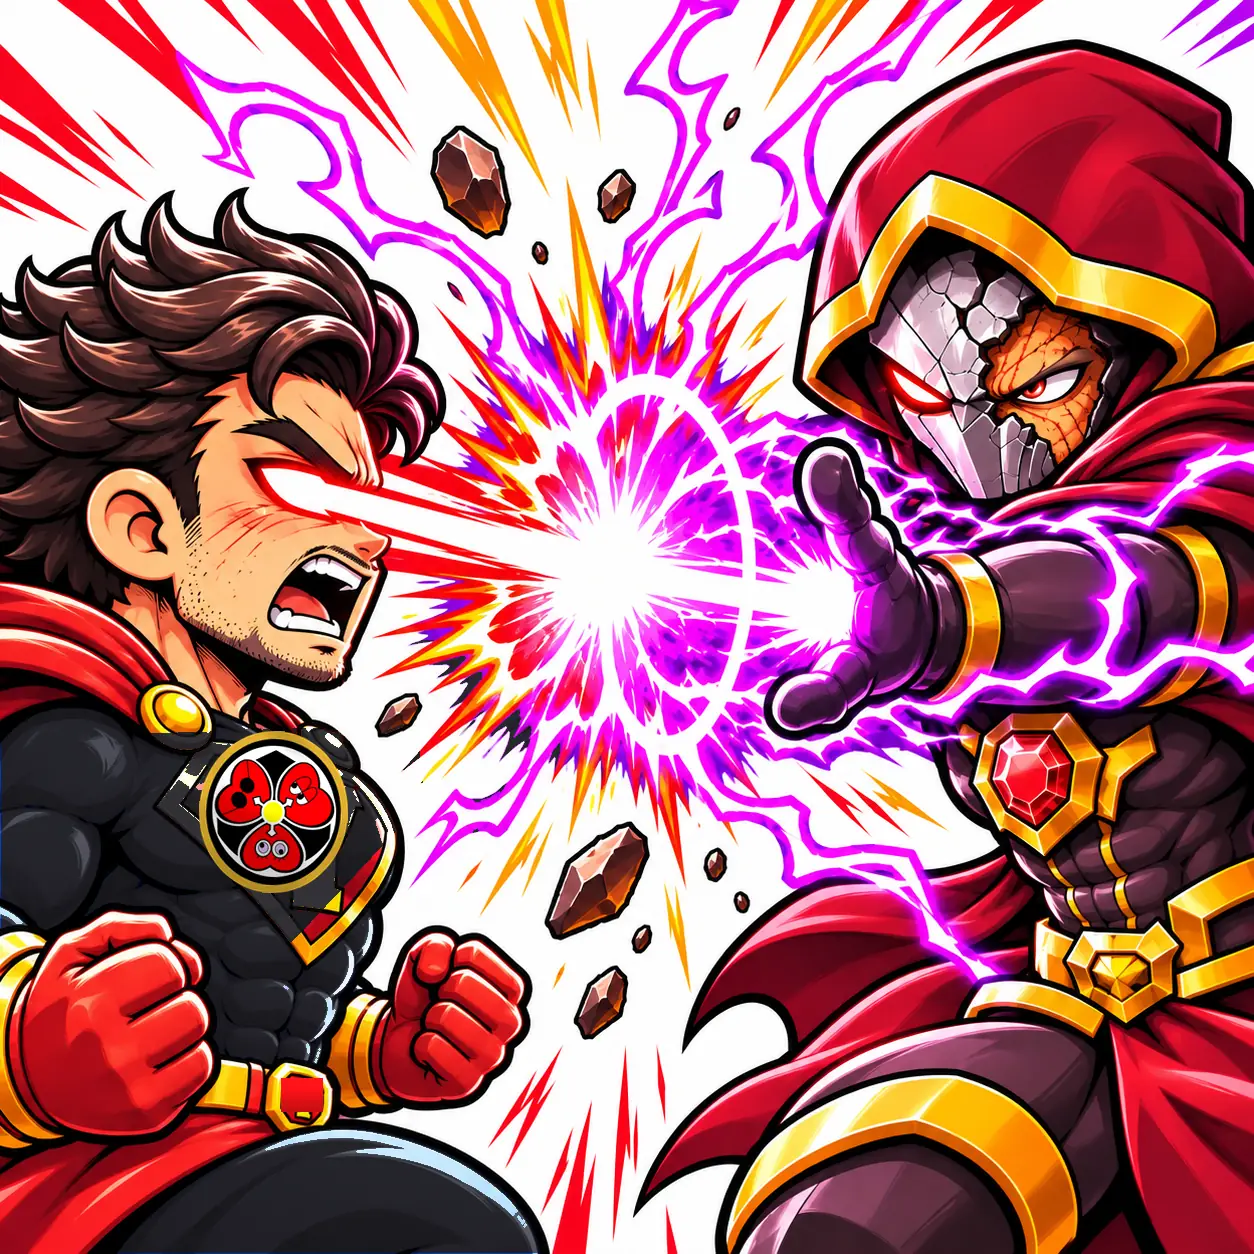
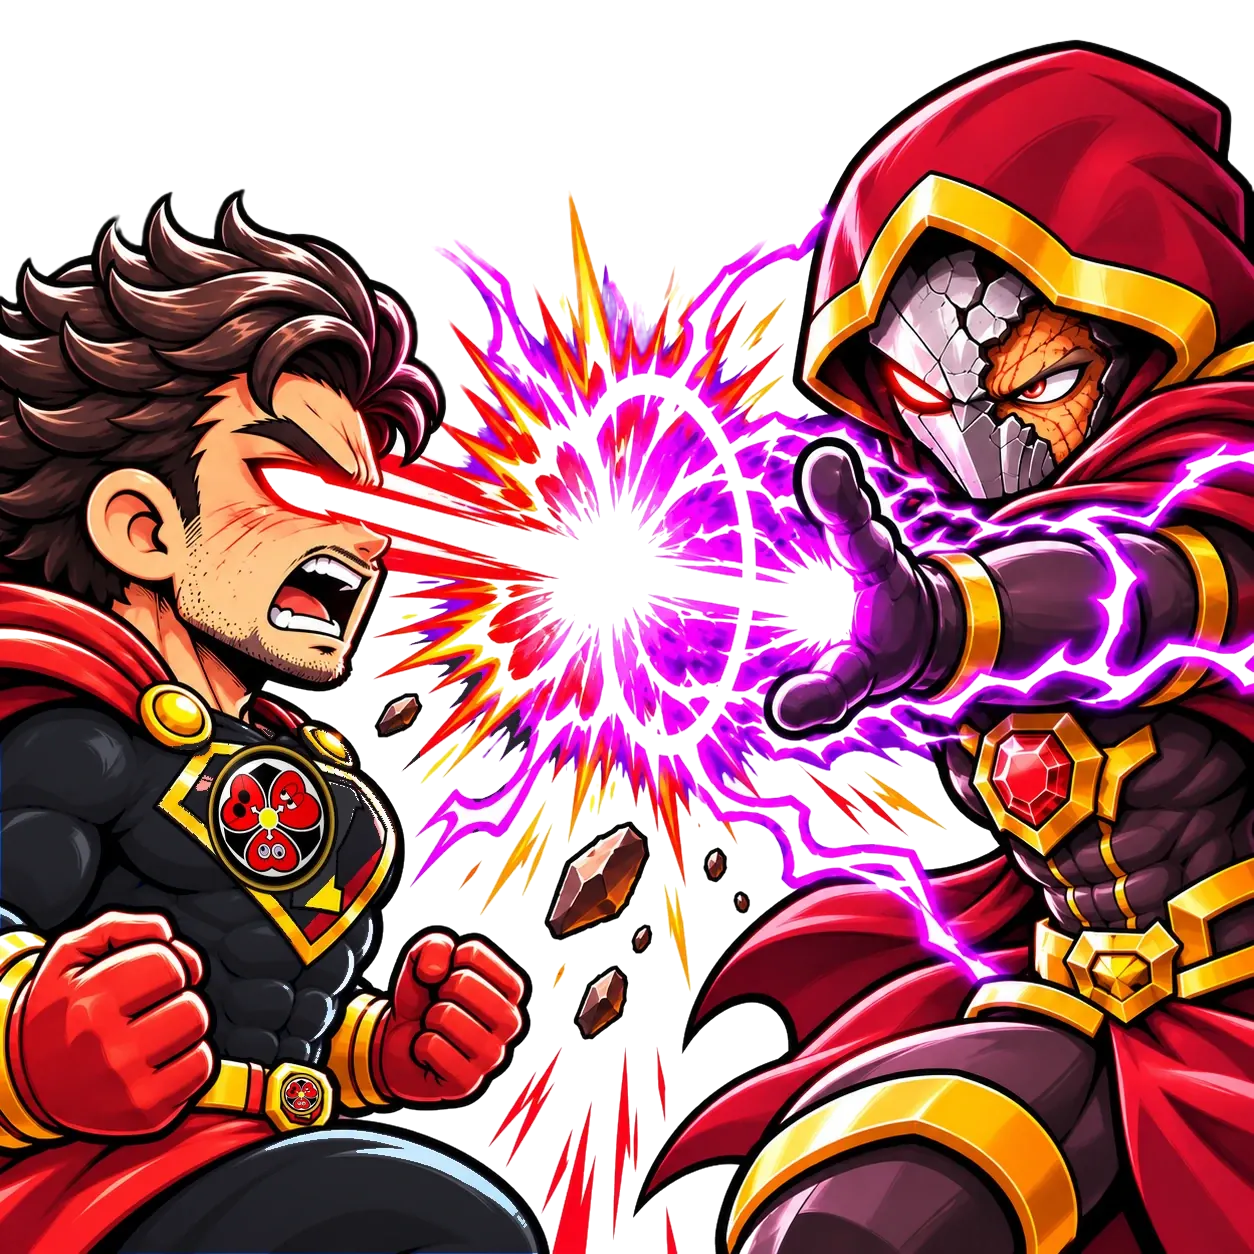
オープニング: キャラの背景を切り抜き、胸の紋章をなじませる
Claude-Session: https://claude.ai/code/session_01P13hFbXEhDS5pok4XEjrJv

diff --git a/en/index.html b/en/index.html
@@ -497,7 +497,11 @@ body.hide-top .lang-btn,body.hide-top .menu-btn{transform:translateY(calc(-100% 
 @keyframes scn0{0%,95%{opacity:1}100%{opacity:0}}
 @keyframes scnIn{0%{opacity:0}8%,100%{opacity:1}}
 .ikb,.ikbg{position:absolute;inset:0;width:100%;height:100%;object-fit:cover}
-.ikbg{display:none;filter:blur(18px) brightness(.5) saturate(1.2);transform:scale(1.15)}
+.ikbg{display:none!important}
+.s1{background:radial-gradient(circle at 50% 42%,#6d28d9 0,#2e1065 34%,#0b0614 76%)}
+.s2b{background:radial-gradient(circle at 38% 45%,#dc2626 0,#5b0d0d 42%,#0b0614 80%)}
+.s4{background:radial-gradient(circle at 58% 42%,#fbbf24 0,#c2410c 18%,#3b0a0a 55%,#0b0614 85%)}
+.s6{background:linear-gradient(90deg,#991b1b 0,#3b0a0a 38%,#2e1065 62%,#5b21b6 100%)}
 /* typography */
 .in-cap{position:absolute;left:0;right:0;bottom:11%;margin:0;padding:0 16px;text-align:center;font-family:var(--f-jp);font-weight:900;font-size:clamp(24px,4.8vw,54px);letter-spacing:.12em;color:#fff;-webkit-text-stroke:5px #1a0b2e;paint-order:stroke fill;text-shadow:0 0 18px rgba(168,85,247,.9),0 4px 0 #000;opacity:0;animation:capIn 1.1s cubic-bezier(.2,.8,.2,1) forwards .7s}
 @keyframes capIn{from{opacity:0;letter-spacing:.6em;filter:blur(8px)}to{opacity:1;letter-spacing:.12em;filter:blur(0)}}
@@ -1706,6 +1710,8 @@ footer .wrap{display:flex;justify-content:space-between;flex-wrap:wrap;gap:10px}
       /* 1: rising embers + lightning over the boss */
       if(t<3.25){ for(let i=0;i<3;i++) P.push({x:rnd(0,W),y:H+10,vx:rnd(-20,20),vy:rnd(-160,-60),life:0,max:rnd(1.2,2.4),s:rnd(1.5,3.5),c:Math.random()<.6?'#c084fc':'#fb923c',k:'dot',g:0,dr:1});
         if(Math.random()<.05){ const x=rnd(W*.1,W*.9); bolt(x,0,x+rnd(-120,120),H*rnd(.3,.6),'rgba(233,213,255,.9)',2); } }
+      if(t<3.3){ const pl=.75+Math.sin(t*14)*.15; [[.17,.41],[.80,.54]].forEach(f=>{ const [x,y]=cover('scBoss',f[0],f[1]); const R=Math.min(W,H)*.09*pl; glow(x,y,R*2,[[0,'rgba(255,255,255,.95)'],[.3,'rgba(233,213,255,.8)'],[.6,'rgba(168,85,247,.45)'],[1,'rgba(88,28,135,0)']]); }); }
+      if(t>8.38&&t<10.6){ const [x,y]=cover('scClash',.6,.45); const R=Math.min(W,H)*.1*(1+Math.sin(t*22)*.08); glow(x,y,R*2,[[0,'rgba(255,255,255,.95)'],[.3,'rgba(254,240,138,.85)'],[.6,'rgba(251,146,60,.4)'],[1,'rgba(220,38,38,0)']]); }
       /* 2: speed streaks toward camera */
       if(t>3.2&&t<6.3){ for(let i=0;i<3;i++){ const a=rnd(0,Math.PI*2), R0=Math.max(W,H)*.36; P.push({x:W/2+Math.cos(a)*R0,y:H/2+Math.sin(a)*R0,vx:Math.cos(a)*rnd(900,1800),vy:Math.sin(a)*rnd(900,1800),life:0,max:.5,s:rnd(1,2.2),c:'#fff',k:'streak',g:0,dr:1}); } }
       /* 4: punch impact */

diff --git a/index.html b/index.html
@@ -497,7 +497,11 @@ body.hide-top .lang-btn,body.hide-top .menu-btn{transform:translateY(calc(-100% 
 @keyframes scn0{0%,95%{opacity:1}100%{opacity:0}}
 @keyframes scnIn{0%{opacity:0}8%,100%{opacity:1}}
 .ikb,.ikbg{position:absolute;inset:0;width:100%;height:100%;object-fit:cover}
-.ikbg{display:none;filter:blur(18px) brightness(.5) saturate(1.2);transform:scale(1.15)}
+.ikbg{display:none!important}
+.s1{background:radial-gradient(circle at 50% 42%,#6d28d9 0,#2e1065 34%,#0b0614 76%)}
+.s2b{background:radial-gradient(circle at 38% 45%,#dc2626 0,#5b0d0d 42%,#0b0614 80%)}
+.s4{background:radial-gradient(circle at 58% 42%,#fbbf24 0,#c2410c 18%,#3b0a0a 55%,#0b0614 85%)}
+.s6{background:linear-gradient(90deg,#991b1b 0,#3b0a0a 38%,#2e1065 62%,#5b21b6 100%)}
 /* typography */
 .in-cap{position:absolute;left:0;right:0;bottom:11%;margin:0;padding:0 16px;text-align:center;font-family:var(--f-jp);font-weight:900;font-size:clamp(24px,4.8vw,54px);letter-spacing:.12em;color:#fff;-webkit-text-stroke:5px #1a0b2e;paint-order:stroke fill;text-shadow:0 0 18px rgba(168,85,247,.9),0 4px 0 #000;opacity:0;animation:capIn 1.1s cubic-bezier(.2,.8,.2,1) forwards .7s}
 @keyframes capIn{from{opacity:0;letter-spacing:.6em;filter:blur(8px)}to{opacity:1;letter-spacing:.12em;filter:blur(0)}}
@@ -1706,6 +1710,8 @@ footer .wrap{display:flex;justify-content:space-between;flex-wrap:wrap;gap:10px}
       /* 1: rising embers + lightning over the boss */
       if(t<3.25){ for(let i=0;i<3;i++) P.push({x:rnd(0,W),y:H+10,vx:rnd(-20,20),vy:rnd(-160,-60),life:0,max:rnd(1.2,2.4),s:rnd(1.5,3.5),c:Math.random()<.6?'#c084fc':'#fb923c',k:'dot',g:0,dr:1});
         if(Math.random()<.05){ const x=rnd(W*.1,W*.9); bolt(x,0,x+rnd(-120,120),H*rnd(.3,.6),'rgba(233,213,255,.9)',2); } }
+      if(t<3.3){ const pl=.75+Math.sin(t*14)*.15; [[.17,.41],[.80,.54]].forEach(f=>{ const [x,y]=cover('scBoss',f[0],f[1]); const R=Math.min(W,H)*.09*pl; glow(x,y,R*2,[[0,'rgba(255,255,255,.95)'],[.3,'rgba(233,213,255,.8)'],[.6,'rgba(168,85,247,.45)'],[1,'rgba(88,28,135,0)']]); }); }
+      if(t>8.38&&t<10.6){ const [x,y]=cover('scClash',.6,.45); const R=Math.min(W,H)*.1*(1+Math.sin(t*22)*.08); glow(x,y,R*2,[[0,'rgba(255,255,255,.95)'],[.3,'rgba(254,240,138,.85)'],[.6,'rgba(251,146,60,.4)'],[1,'rgba(220,38,38,0)']]); }
       /* 2: speed streaks toward camera */
       if(t>3.2&&t<6.3){ for(let i=0;i<3;i++){ const a=rnd(0,Math.PI*2), R0=Math.max(W,H)*.36; P.push({x:W/2+Math.cos(a)*R0,y:H/2+Math.sin(a)*R0,vx:Math.cos(a)*rnd(900,1800),vy:Math.sin(a)*rnd(900,1800),life:0,max:.5,s:rnd(1,2.2),c:'#fff',k:'streak',g:0,dr:1}); } }
       /* 4: punch impact */

diff --git a/th/index.html b/th/index.html
@@ -497,7 +497,11 @@ body.hide-top .lang-btn,body.hide-top .menu-btn{transform:translateY(calc(-100% 
 @keyframes scn0{0%,95%{opacity:1}100%{opacity:0}}
 @keyframes scnIn{0%{opacity:0}8%,100%{opacity:1}}
 .ikb,.ikbg{position:absolute;inset:0;width:100%;height:100%;object-fit:cover}
-.ikbg{display:none;filter:blur(18px) brightness(.5) saturate(1.2);transform:scale(1.15)}
+.ikbg{display:none!important}
+.s1{background:radial-gradient(circle at 50% 42%,#6d28d9 0,#2e1065 34%,#0b0614 76%)}
+.s2b{background:radial-gradient(circle at 38% 45%,#dc2626 0,#5b0d0d 42%,#0b0614 80%)}
+.s4{background:radial-gradient(circle at 58% 42%,#fbbf24 0,#c2410c 18%,#3b0a0a 55%,#0b0614 85%)}
+.s6{background:linear-gradient(90deg,#991b1b 0,#3b0a0a 38%,#2e1065 62%,#5b21b6 100%)}
 /* typography */
 .in-cap{position:absolute;left:0;right:0;bottom:11%;margin:0;padding:0 16px;text-align:center;font-family:var(--f-jp);font-weight:900;font-size:clamp(24px,4.8vw,54px);letter-spacing:.12em;color:#fff;-webkit-text-stroke:5px #1a0b2e;paint-order:stroke fill;text-shadow:0 0 18px rgba(168,85,247,.9),0 4px 0 #000;opacity:0;animation:capIn 1.1s cubic-bezier(.2,.8,.2,1) forwards .7s}
 @keyframes capIn{from{opacity:0;letter-spacing:.6em;filter:blur(8px)}to{opacity:1;letter-spacing:.12em;filter:blur(0)}}
@@ -1706,6 +1710,8 @@ footer .wrap{display:flex;justify-content:space-between;flex-wrap:wrap;gap:10px}
       /* 1: rising embers + lightning over the boss */
       if(t<3.25){ for(let i=0;i<3;i++) P.push({x:rnd(0,W),y:H+10,vx:rnd(-20,20),vy:rnd(-160,-60),life:0,max:rnd(1.2,2.4),s:rnd(1.5,3.5),c:Math.random()<.6?'#c084fc':'#fb923c',k:'dot',g:0,dr:1});
         if(Math.random()<.05){ const x=rnd(W*.1,W*.9); bolt(x,0,x+rnd(-120,120),H*rnd(.3,.6),'rgba(233,213,255,.9)',2); } }
+      if(t<3.3){ const pl=.75+Math.sin(t*14)*.15; [[.17,.41],[.80,.54]].forEach(f=>{ const [x,y]=cover('scBoss',f[0],f[1]); const R=Math.min(W,H)*.09*pl; glow(x,y,R*2,[[0,'rgba(255,255,255,.95)'],[.3,'rgba(233,213,255,.8)'],[.6,'rgba(168,85,247,.45)'],[1,'rgba(88,28,135,0)']]); }); }
+      if(t>8.38&&t<10.6){ const [x,y]=cover('scClash',.6,.45); const R=Math.min(W,H)*.1*(1+Math.sin(t*22)*.08); glow(x,y,R*2,[[0,'rgba(255,255,255,.95)'],[.3,'rgba(254,240,138,.85)'],[.6,'rgba(251,146,60,.4)'],[1,'rgba(220,38,38,0)']]); }
       /* 2: speed streaks toward camera */
       if(t>3.2&&t<6.3){ for(let i=0;i<3;i++){ const a=rnd(0,Math.PI*2), R0=Math.max(W,H)*.36; P.push({x:W/2+Math.cos(a)*R0,y:H/2+Math.sin(a)*R0,vx:Math.cos(a)*rnd(900,1800),vy:Math.sin(a)*rnd(900,1800),life:0,max:.5,s:rnd(1,2.2),c:'#fff',k:'streak',g:0,dr:1}); } }
       /* 4: punch impact */
